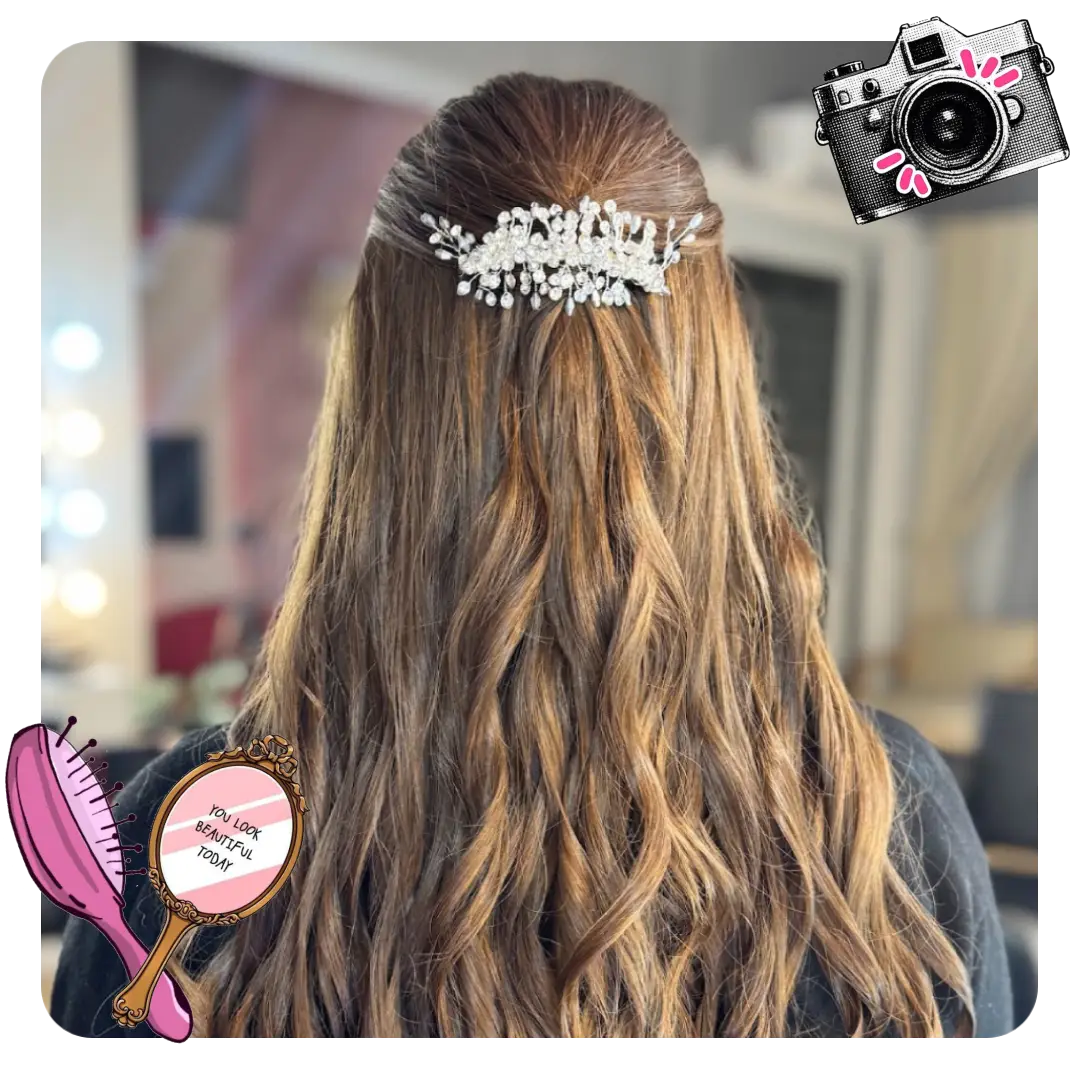
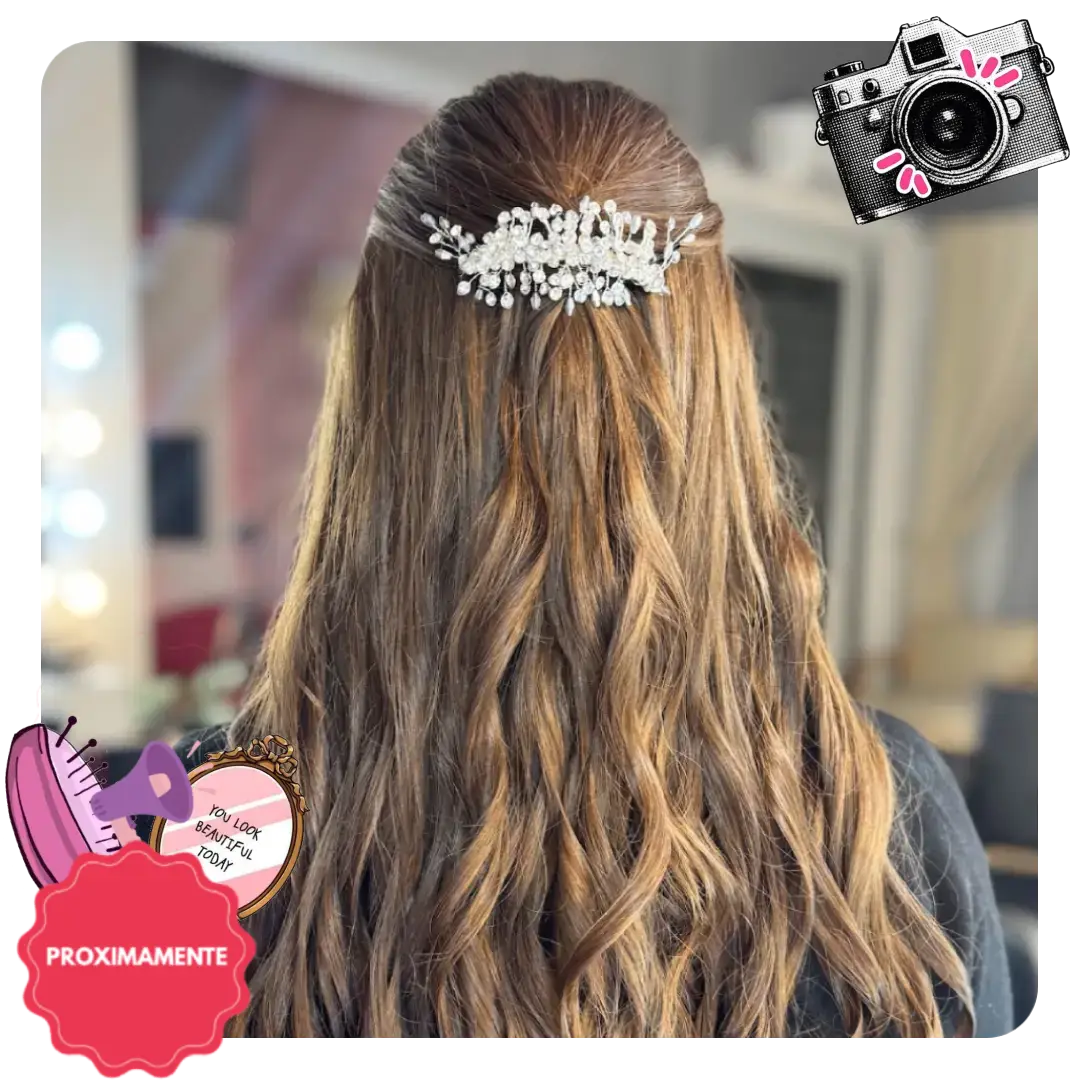
ultimos cambios del front

Changed region(s): [[0.0, 0.6722, 0.2444, 1.0]]

diff --git a/index.html b/index.html
@@ -409,7 +409,7 @@
       <div class="novias-container">
         <!-- Información -->
         <div class="novias-content">
-          <h2>NOVIAS💍💐</h2>
+          <h2>NOVIAS</h2>
 
           <h3>Una mirada integral. Un look único</h3>
 
@@ -517,7 +517,7 @@
       <div class="egresadas-container">
         <!-- Contenido -->
         <div class="egresadas-content">
-          <h2>EGRESADAS🎓</h2>
+          <h2>EGRESADAS</h2>
 
           <h3>
             Tu estilo, tu idea, tu noche. Creamos un look que te haga sentir
@@ -562,7 +562,7 @@
         </div>
 
         <div class="quince-content">
-          <h1>QUINCEAÑERAS✨</h1>
+          <h1>QUINCEAÑERAS</h1>
 
           <p>
             Un día que soñaste, un look para recordar. Creamos cada detalle para

diff --git a/servicios/social.html b/servicios/social.html
@@ -192,7 +192,7 @@
             </div>
             <!-- FOTO 1080 x 1080 -->
             <div class="servicio-presentacion-mundomona">
-                <img  id="servicioPortada" src="../src/img_servicios/mundo_mona.webp" alt="">
+                <img  id="servicioPortada" src="../src/img_servicios/mundo_mona2.webp" alt="">
             </div>
         </section>
 

diff --git a/src/servicios.css b/src/servicios.css
@@ -2531,7 +2531,7 @@ MANICURIA Y PEDICURIA
 }
 
 .servicio-presentacion-mundomona img {
-  width: 800px;
+  width: 700px;
 }
 
 @media (max-width: 650px) {
